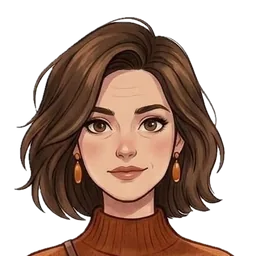
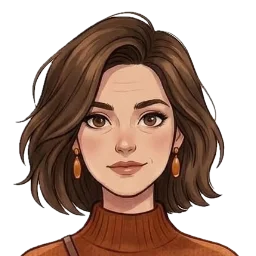
Characters: 4 facial moods (smile, big smile, neutral, sad) aligned by eyes
- Correct answer: big smile; wrong answer: sad face; AI typing: neutral
- Precache mood avatars (cache v40)

Claude-Session: https://claude.ai/code/session_01H4XqdS2WmGqkTavEaQnELH

diff --git a/index.html b/index.html
@@ -694,7 +694,7 @@ body.sheet-open{overflow:hidden}
 .g-card.wide .g-ic{font-size:40px}
 .g-card.wide strong{font-size:17px}
 .st-head{display:flex;gap:12px;align-items:center;margin-bottom:12px}
-.st-av{flex:none;width:72px;height:72px}.st-av.sm{width:54px;height:54px}.st-av svg{width:100%;height:100%;display:block}
+.st-av{flex:none;width:72px;height:72px}.st-av.sm{width:66px;height:66px}.st-av svg{width:100%;height:100%;display:block}
 .st-say{flex:1;padding:10px 14px;border-radius:16px;border-start-start-radius:4px;background:var(--surface-2);font-weight:700;font-size:14.5px}
 .st-map{display:grid;grid-template-columns:1fr 1fr;gap:10px}
 .st-place{display:flex;flex-direction:column;align-items:flex-start;gap:3px;min-height:96px;padding:12px;border-radius:var(--r-md);border:2px solid var(--line);background:var(--surface);color:var(--ink);font:inherit;text-align:start;cursor:pointer;box-shadow:0 var(--depth-sm) 0 var(--edge)}
@@ -740,7 +740,8 @@ body.sheet-open{overflow:hidden}
 .ch-ph img{position:absolute;inset:0;width:100%;height:100%;object-fit:cover;object-position:50% 0;user-select:none}
 .ch-ph.full{border-radius:0;background:none;overflow:visible}.ch-ph.full img{object-fit:contain;object-position:50% 0}
 .ch-mood{position:absolute;inset:0;width:100%;height:100%;pointer-events:none}
-.ch-ph.m-wow img{animation:ch-hop .5s var(--ease,ease) 1}.ch-ph.m-think img{transform:rotate(-4deg) translateY(2px);transition:transform .3s}
+.ch-ph.m-wow img{animation:ch-hop .5s var(--ease,ease) 1}.ch-ph.m-sad img{animation:ch-sad .6s ease 1}
+@keyframes ch-sad{30%{transform:translateX(-3%)}60%{transform:translateX(3%)}}
 @keyframes ch-hop{40%{transform:translateY(-6%) scale(1.04)}}
 @media (prefers-reduced-motion:reduce){.ch-ph img{animation:none!important;transition:none!important}}
 @media (max-width:380px){.ch-mini>span:last-child{display:none}.ch-mini{padding:3px}}
@@ -4212,8 +4213,9 @@ function mdRender(){
 
 // ========== ART: characters Roel + Lotte (3 moods, avatar or full body) + scene illustrations ==========
 // characters are illustrated images (img/chars); mood shown with a small overlay
-const MOOD_EXTRA=mood=>mood==="wow"?'<svg class="ch-mood" viewBox="0 0 120 120" aria-hidden="true"><path d="M14 26l3 7 7 3-7 3-3 7-3-7-7-3 7-3zM102 14l2 5 5 2-5 2-2 5-2-5-5-2 5-2z" fill="#FDDA24" stroke="#fff" stroke-width="1.5"/></svg>':mood==="think"?'<svg class="ch-mood" viewBox="0 0 120 120" aria-hidden="true"><circle cx="100" cy="28" r="4" fill="#fff"/><circle cx="108" cy="14" r="6.5" fill="#fff"/></svg>':"";
-const CHAR_IMG=(id,mood,full)=>`<span class="ch-ph ch-${id} m-${mood}${full?" full":""}"><img src="img/chars/${id}${full?"-card":""}.webp" alt="" decoding="async" draggable="false">${full?"":MOOD_EXTRA(mood)}</span>`;
+const MOOD_EXTRA=mood=>mood==="wow_"?'<svg class="ch-mood" viewBox="0 0 120 120" aria-hidden="true"><path d="M14 26l3 7 7 3-7 3-3 7-3-7-7-3 7-3zM102 14l2 5 5 2-5 2-2 5-2-5-5-2 5-2z" fill="#FDDA24" stroke="#fff" stroke-width="1.5"/></svg>':mood==="think"?'<svg class="ch-mood" viewBox="0 0 120 120" aria-hidden="true"><circle cx="100" cy="28" r="4" fill="#fff"/><circle cx="108" cy="14" r="6.5" fill="#fff"/></svg>':"";
+const MOOD_FILE={happy:"",wow:"-wow",think:"-think",sad:"-sad"};
+const CHAR_IMG=(id,mood,full)=>`<span class="ch-ph ch-${id} m-${mood}${full?" full":""}"><img src="img/chars/${id}${full?"-card":(MOOD_FILE[mood]||"")}.webp" alt="" decoding="async" draggable="false">${full?"":MOOD_EXTRA(mood)}</span>`;
 const ROEL_SVG=(mood,full)=>CHAR_IMG("roel",mood,full);
 const LOTTE_SVG=(mood,full)=>CHAR_IMG("lotte",mood,full);
 // --- chosen character (Roel is the default guide) ---
@@ -4436,7 +4438,7 @@ function storyFree(alts){
  const kw=(ACCEPT[s.sc.id]||[])[s.i]||[],txt=" "+gNorm(alts[0])+" ";
  const hit=kw.some(k=>txt.includes(" "+gNorm(k)+" ")||txt.includes(gNorm(k)))&&gNorm(alts[0]).split(" ").length>=2;
  if(hit){s.understood=true;return storyAnswer(ok,true,true)}
- s.miss++;s.mood="think";const correct=t[3][ok][0];logMistake(correct,uiLang==="uk"?t[1]:t[2]);
+ s.miss++;s.mood="sad";const correct=t[3][ok][0];logMistake(correct,uiLang==="uk"?t[1]:t[2]);
  s.fb={ok:false,text:gU().tryAgain+" · "+stU().hint,nl:correct.split(" ").slice(0,2).join(" ")+" …"};storyRender();
 }
 function storyAnswer(k,spoken,loose){
@@ -4444,7 +4446,7 @@ function storyAnswer(k,spoken,loose){
  if(o[1]){if(!s.tried.length)addXP(spoken?(loose?6:8):5);say(o[0]);s.i++;s.tried=[];s.order=null;s.mood=loose?"happy":"wow";
   s.fb=loose?{ok:true,text:stU().understood,nl:o[0]}:{ok:true,text:(spoken?"🎤 ":"")+(uiLang==="uk"?"Так! ":"Yes! "),nl:o[0]};
   const next=s.sc.turns[s.i];storyRender();if(next)setTimeout(()=>{if(gState===s)say(next[0])},Math.min(3600,800+o[0].length*55));}
- else{s.miss++;s.mood="think";s.tried=s.tried.concat(k);const why=uiLang==="uk"?o[2]:(o[3]||o[2]);logMistake(t[3].find(x=>x[1])[0],why);s.fb={ok:false,text:why};storyRender()}
+ else{s.miss++;s.mood="sad";s.tried=s.tried.concat(k);const why=uiLang==="uk"?o[2]:(o[3]||o[2]);logMistake(t[3].find(x=>x[1])[0],why);s.fb={ok:false,text:why};storyRender()}
 }
 
 // ========== AI CHAT with {N} (hidden until AI_ENDPOINT is set; server: tools/ai-worker.js) ==========

diff --git a/sw.js b/sw.js
@@ -1,6 +1,6 @@
 /* Leren.be offline cache. Relative paths support GitHub Pages project sites. */
-const CACHE_NAME = "leren-be-v39";
-const APP_FILES = ["./", "./index.html", "./manifest.webmanifest", "./icon.svg", "./apple-touch-icon.png", "./icon-192.png", "./icon-512.png", "./icon-maskable-512.png", "./privacy.html", "./fonts/nunito.woff", "./fonts/unbounded.woff", "./img/chars/roel.webp", "./img/chars/lotte.webp"];
+const CACHE_NAME = "leren-be-v40";
+const APP_FILES = ["./", "./index.html", "./manifest.webmanifest", "./icon.svg", "./apple-touch-icon.png", "./icon-192.png", "./icon-512.png", "./icon-maskable-512.png", "./privacy.html", "./fonts/nunito.woff", "./fonts/unbounded.woff", "./img/chars/roel.webp", "./img/chars/roel-wow.webp", "./img/chars/roel-think.webp", "./img/chars/roel-sad.webp", "./img/chars/lotte.webp", "./img/chars/lotte-wow.webp", "./img/chars/lotte-think.webp", "./img/chars/lotte-sad.webp"];
 
 self.addEventListener("install", event => {
   event.waitUntil((async () => {
